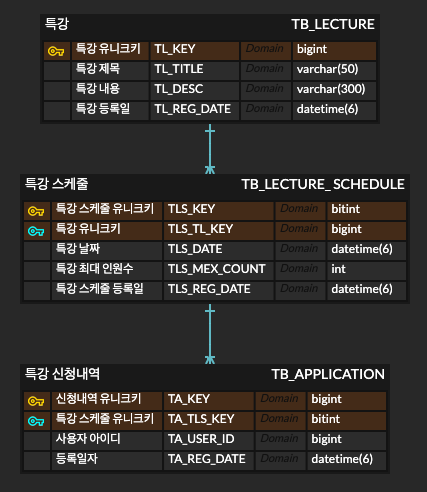
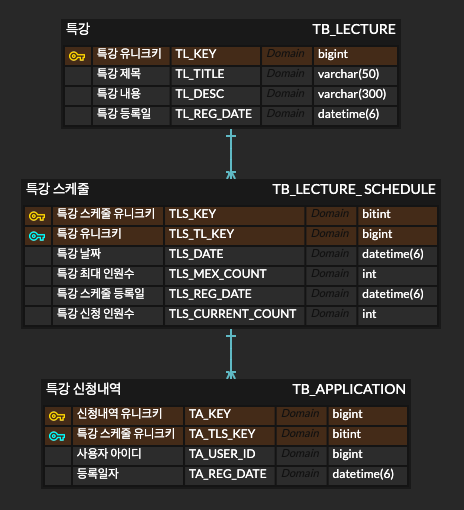
DB ERD 수정

diff --git a/src/main/java/com/hhplus/lecture/spring/domain/schedule/LectureSchedule.java b/src/main/java/com/hhplus/lecture/spring/domain/schedule/LectureSchedule.java
@@ -37,6 +37,9 @@ public class LectureSchedule {
     @Column(name = "TLS_REG_DATE", nullable = false)
     private LocalDateTime regDate;
 
+//    @Column(name = "TLS_CURRENT_COUNT", nullable = false)
+//    private Integer currentCount;
+
     @OneToMany(mappedBy = "lectureSchedule", cascade = CascadeType.ALL)
     private List<Application> applications = new ArrayList<>();
 
